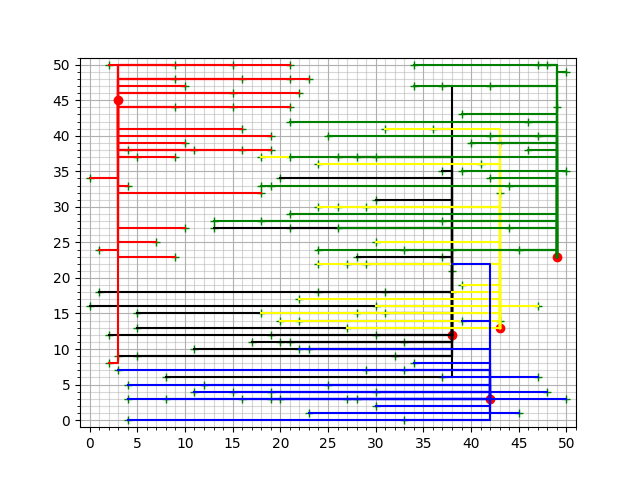
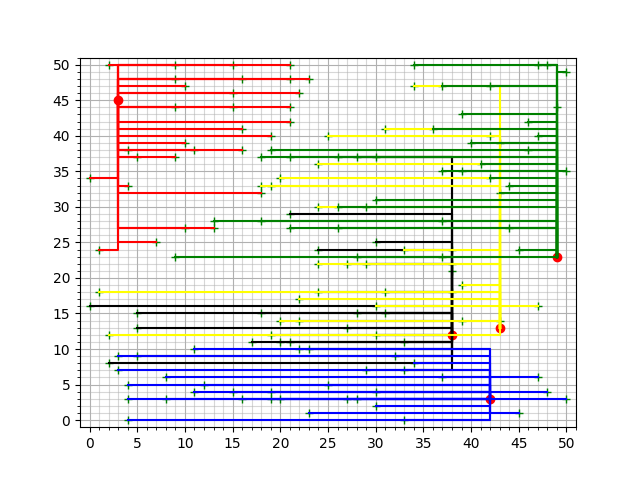
Changed firstalgorithm to also accept multiple switches to one connection

diff --git a/code/algorithms/firstalgorithm.py b/code/algorithms/firstalgorithm.py
@@ -1,8 +1,10 @@
 import copy
 from operator import attrgetter
+from itertools import combinations
 
 
 class FirstAlgorithm:
+    """Switches connections with better connections"""
     def __init__(self, valid_district):
         self.district = copy.deepcopy(valid_district)
        
@@ -15,19 +17,6 @@ class FirstAlgorithm:
     def get_false_connections(self):
         potential_cons = self.district.get_false_connections()
         return potential_cons
-
-
-    def get_valid_switches(self, ex_con, other_cons_house):
-        """Gets all connections that current connection can make a valid switch with"""
-        valid_switches = []
-        for other_con in other_cons_house:
-            other_cons_with_battery = self.find_multiple_connections(other_con.battery)
-            for ocb in other_cons_with_battery:
-                free_cap_a = ex_con.battery.get_free_capacity(ex_con.output)
-                free_cap_b = other_con.battery.get_free_capacity(ocb.output)
-                if free_cap_a >= ocb.output and free_cap_b >= ex_con.output:
-                    valid_switches.append(ocb)
-        return valid_switches                
 
 
     def find_a_connection(self, house, battery):
@@ -45,25 +34,6 @@ class FirstAlgorithm:
         return cons_with_battery
 
 
-    def find_best_switch(self, ex_con, valid_switches):
-        """Finds the best connection to switch with from a list of valid switches"""
-        cons_to_switch = {}
-        best_new_distance = float('inf')
-        for valid_switch in valid_switches:
-            new_con_a = self.find_a_connection(valid_switch.house, ex_con.battery)
-            new_con_b = self.find_a_connection(ex_con.house, valid_switch.battery)
-
-            total_new_distance = new_con_a.distance + new_con_b.distance
-            total_old_distance = ex_con.distance + valid_switch.distance
-
-            if total_new_distance < total_old_distance:
-                if total_new_distance < best_new_distance:
-                    best_new_distance = total_new_distance
-                    cons_to_switch['best_switch'] = valid_switch
-                    cons_to_switch['new_con_a'] = new_con_a
-                    cons_to_switch['new_con_b'] = new_con_b      
-        return cons_to_switch
-                        
 
     def make_switch(self, old_connection, new_connection):
         """Calls District function to make and break the connections that need to be switched"""
@@ -71,29 +41,85 @@ class FirstAlgorithm:
         self.district.make_connection(new_connection)        
 
 
-    def do_stuff_with_connections(self, iterations):    
+
+    def find_some_switches(self, ex_con, valid_switches):
+        cons_to_switch = {}
+        # best_new_distance = float('inf')
+        free_cap = ex_con.battery.get_free_capacity(ex_con.output)
+        for battery_group in valid_switches:
+            for i in range(3,0,-1):
+                for combi in combinations(battery_group, i):
+                    linked_battery = combi[0].battery
+                    combi_output = sum(con.output for con in combi)
+                    if combi_output <= free_cap and ex_con.output <= linked_battery.get_free_capacity(combi_output):
+                        new_ex_con = self.find_a_connection(ex_con.house, linked_battery)
+                        new_first = self.find_a_connection(combi[0].house, ex_con.battery)
+                        total_new_distance = new_ex_con.calc_penalty() + new_first.calc_penalty()
+                        if len(combi) > 1:
+                            new_second = self.find_a_connection(combi[1].house, ex_con.battery)
+                            total_new_distance = total_new_distance + new_second.calc_penalty()
+                        if len(combi) > 2:
+                            new_third = self.find_a_connection(combi[2].house, ex_con.battery)
+                            total_new_distance = total_new_distance + new_third.calc_penalty()
+
+                        total_old_distance = ex_con.calc_penalty() + sum(con.calc_penalty() for con in combi)
+                        
+                        if total_new_distance < total_old_distance:
+                            # if total_new_distance < best_new_distance:
+                            cons_to_switch = {}
+                            # best_new_distance = total_new_distance
+                            cons_to_switch['first_switch'] = combi[0]
+                            cons_to_switch['new_first'] = new_first 
+                            cons_to_switch['new_ex_con'] = new_ex_con    
+                            if len(combi) > 1:
+                                cons_to_switch['second_switch'] = combi[1]
+                                cons_to_switch['new_second'] = new_second
+                            if len(combi) > 2:
+                                cons_to_switch['third_switch'] = combi[2]
+                                cons_to_switch['new_third'] = new_third             
+                           
+        return cons_to_switch                     
+
+
+
+    def do_stuff_with_connections(self):    
         """The run function of this algorithm"""
+        changes = True
         i = 0
-        for i in range(iterations): 
+        while changes:
             potential_cons = self.get_false_connections()
             existing_cons = self.get_true_connections()
-            existing_cons.sort(key=attrgetter('distance', 'output'), reverse=True)
+            existing_cons.sort(key=lambda h: h.calc_penalty(), reverse=True)
+            j = 0
+            for ex_con in existing_cons: 
+                j = j +1  
+                if j%30 == 0:
+                    print(f"j = {j}")             
+                other_cons_house = [och for och in potential_cons if och.house == ex_con.house]
+                valid_switches = self.get_valid_switches(other_cons_house)
+                cons_to_switch = self.find_some_switches(ex_con, valid_switches)
 
-            for ex_con in existing_cons:                
-                other_cons_house = [och for och in potential_cons if och.house == ex_con.house and och.distance < ex_con.distance]
-                
-                if other_cons_house:
-                    valid_switches = self.get_valid_switches(ex_con, other_cons_house)
-
-                    if valid_switches:
-                        cons_to_switch = self.find_best_switch(ex_con, valid_switches)
-
-                        if cons_to_switch:
-                            self.make_switch(ex_con, cons_to_switch['new_con_a'])
-                            self.make_switch(cons_to_switch['best_switch'], cons_to_switch['new_con_b'])
-
-                            break
-
-            i = i+1
+                if cons_to_switch:
+                    changes = True
+                    self.make_switch(ex_con, cons_to_switch['new_ex_con'])
+                    self.make_switch(cons_to_switch['first_switch'], cons_to_switch['new_first'])
+                    if 'second_switch' in cons_to_switch:
+                        print(f"combi at {i}")
+                        self.make_switch(cons_to_switch['second_switch'], cons_to_switch['new_second'])
+                        if 'third_switch' in cons_to_switch:
+                            print(f"And even a triple at {i}!")
+                            self.make_switch(cons_to_switch['third_switch'], cons_to_switch['new_third'])
+                    i = i + 1
+                    break
+                else:
+                    changes = False
 
 
+    def get_valid_switches(self, other_cons_house):
+        """Gets all connections that current connection can make a valid switch with"""
+        valid_switches = []
+        for other_con in other_cons_house:
+            other_cons_with_battery = self.find_multiple_connections(other_con.battery)
+            valid_switches.append(other_cons_with_battery)
+        return valid_switches                
+    

diff --git a/main.py b/main.py
@@ -13,24 +13,27 @@ from code.visualisation.visualisation import make_district
 
 if  __name__ == "__main__":
     
+    all_bests = []
 
-    total_best = None
-    total_lowest = 10000
+    for g in range(10):
+        total_best = None
+        total_lowest = 10000
 
-    for f in range(1):
-        test_district = district.District("data/district-1_batteries.csv","data/district-1_houses.csv")
-        possibility = nearestHouse(test_district)
-        print(f"Total cable length of semi-random valid solution ({f}): {possibility.calc_costs()}")
+        for f in range(5):
+            test_district = district.District("data/district-1_batteries.csv","data/district-1_houses.csv")
+            possibility = randomly_connect(test_district)
+            print(f"Total cable length of semi-random valid solution ({f}): {possibility.calc_costs()}")
 
-        first_algorithm = fa(possibility)
-        first_algorithm.do_stuff_with_connections(200)
+            first_algorithm = fa(possibility)
+            first_algorithm.do_stuff_with_connections()
 
-        print(f"Total cable length after algorithm ({f}): {first_algorithm.district.calc_costs()}")
-        
-        if first_algorithm.district.calc_costs() < total_lowest:
-            total_best = first_algorithm.district
-            total_lowest = first_algorithm.district.calc_costs()
+            print(f"Total cable length after algorithm ({f}): {first_algorithm.district.calc_costs()}")
+            
+            if first_algorithm.district.calc_costs() < total_lowest:
+                total_best = first_algorithm.district
+                total_lowest = first_algorithm.district.calc_costs()
 
-    print(f"Best solution: {total_lowest}")
-    total_best.make_cables()
-    visual_district = make_district(total_best)
+        print(f"Best solution: {total_lowest}")
+        total_best.make_cables()
+        visual_district = make_district(total_best)
+        all_bests.append({g: total_best, 'visual': visual_district})

diff --git a/code/algorithms/nearesthouse.py b/code/algorithms/nearesthouse.py
@@ -9,10 +9,10 @@ def nearestHouse(district):
     """
     while district.unconnected_houses():
         all_houses = district.get_houses()
-        all_houses.sort(key=attrgetter('output'))
+        all_houses.sort(key=attrgetter('output'), reverse=True)
 
         i=0 
-        for i in range(30):
+        for i in range(40):
             house = all_houses[i]
             house_connections = [con for con in district.get_false_connections() if con.house == house]
             house_connections.sort(key=attrgetter('distance')) 

diff --git a/code/classes/connection.py b/code/classes/connection.py
@@ -19,8 +19,8 @@ class Connection():
 
     def calc_penalty(self):
         """
-        Calculates if the connection if the optimal connection for its 
-        house or how much the difference with the optimal connection is
+        Calculates if the connection is an optimal connection for its house 
+        or if it isn't how much the difference with the optimal connection is
         """
         other_house_cons = self.district.get_house_connections(self)
         smallest_distance = self.distance

diff --git a/code/classes/district.py b/code/classes/district.py
@@ -4,11 +4,6 @@
 # Implementation of Smart Grid classes *
 # **************************************
 
-
-# loads houses and batteries 
-
-#output = return batteries and houses
-
 from .battery import Battery
 from .house import House
 from .connection import Connection
